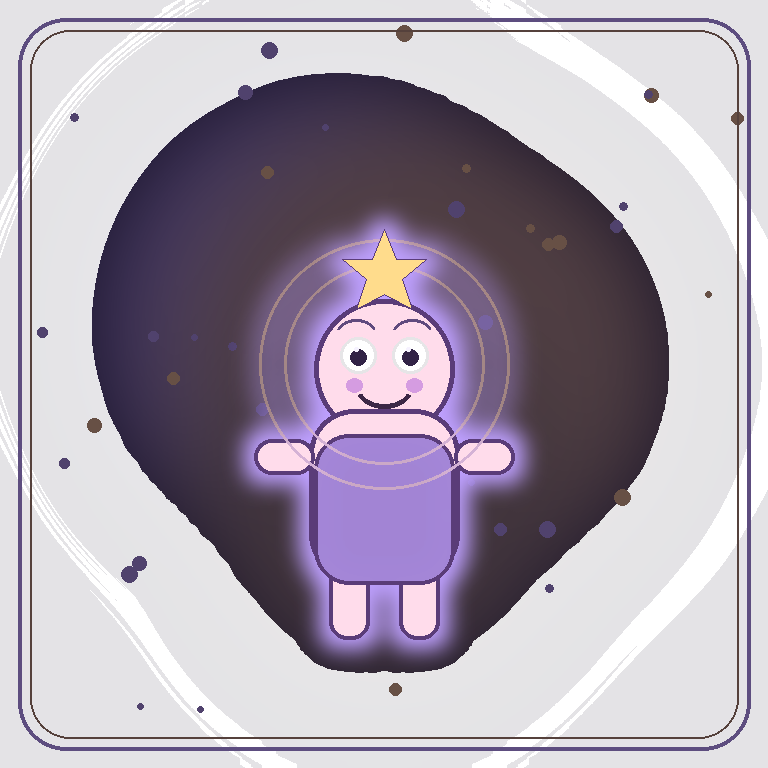
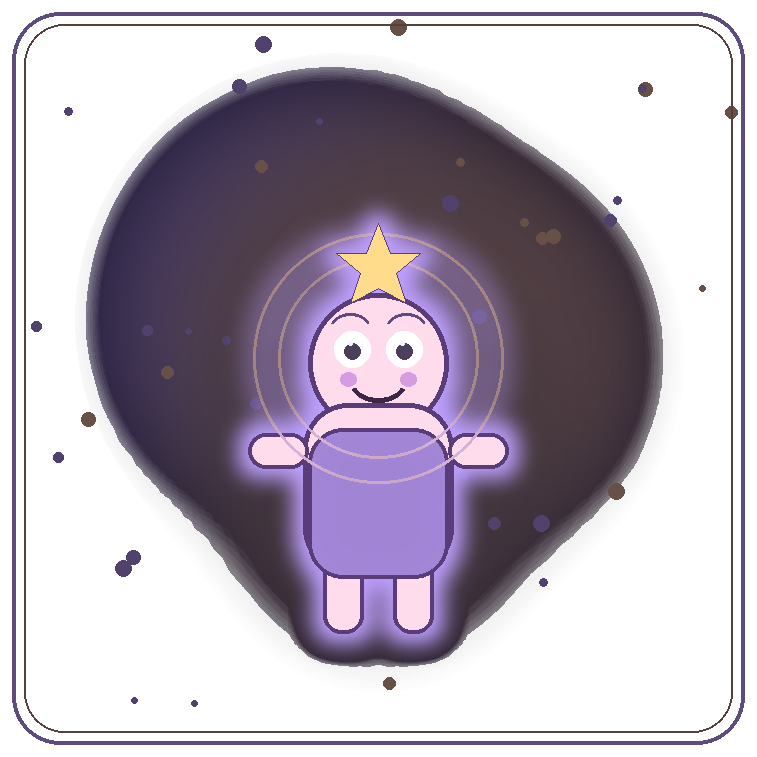
UNIVERSUM v5.28.0 — Figur wirklich frei · Status bis Rand
Hero neu als zwei Spalten (Status+Mond/Sonne | Figur von oben).
Pfad-Figur-PNGs ohne dunklen Kachel-Hintergrund. Cache v83.

diff --git a/css/styles.css b/css/styles.css
@@ -9360,7 +9360,8 @@ body.stille-modus #sec-cockpit > *:not(.altar-cockpit):not(.stille-ritual-slot):
 body.stille-modus #altar-cockpit > *:not(.cock-hero-grid) {
   display: none !important;
 }
-body.stille-modus #altar-cockpit .cock-hero-grid > *:not(.cock-status-bar) {
+body.stille-modus #altar-cockpit .cock-path-figur,
+body.stille-modus #altar-cockpit .cock-mond-sonne {
   display: none !important;
 }
 body.stille-modus #altar-cockpit .cock-status-unified .cock-status-meta {
@@ -9370,7 +9371,11 @@ body.stille-modus #altar-cockpit .cock-hero-grid {
   display: grid !important;
   grid-template-columns: 1fr;
   grid-template-rows: 1fr;
-  grid-template-areas: "status";
+  height: 100%;
+}
+body.stille-modus #altar-cockpit .cock-hero-main {
+  display: grid !important;
+  grid-template-rows: 1fr;
   height: 100%;
 }
 body.stille-modus #altar-cockpit .cock-status-bar {
@@ -9509,14 +9514,11 @@ body.stille-modus #sec-cockpit #jetzt-card .jetzt-lead {
   overflow: hidden;
 }
 
-/* Hero: große Status-Kachel bis Rand links · Figur frei oben rechts */
+/* Hero v5.28: Status+Mond/Sonne links · Figur frei rechts von oben */
 .cock-hero-grid {
   display: grid;
-  grid-template-columns: minmax(0, 1.35fr) minmax(0, 1.35fr) minmax(0, 1.2fr);
-  grid-template-rows: minmax(0, 1.15fr) minmax(0, 1fr);
-  grid-template-areas:
-    "status status figur"
-    "mond   sonne  figur";
+  grid-template-columns: minmax(0, 1.7fr) minmax(6.5rem, 0.95fr);
+  grid-template-rows: minmax(0, 1fr);
   gap: var(--cock-gap);
   min-height: 0;
   height: 100%;
@@ -9525,10 +9527,31 @@ body.stille-modus #sec-cockpit #jetzt-card .jetzt-lead {
   margin: 0;
   padding: 0;
 }
-.cock-hero-grid .cock-status-bar { grid-area: status; }
-.cock-hero-grid .cock-mond { grid-area: mond; }
-.cock-hero-grid .cock-sonne { grid-area: sonne; }
-.cock-hero-grid .cock-path-figur { grid-area: figur; }
+.cock-hero-main {
+  display: grid;
+  grid-template-rows: minmax(0, 1.25fr) minmax(0, 1fr);
+  gap: var(--cock-gap);
+  min-width: 0;
+  min-height: 0;
+  height: 100%;
+}
+.cock-hero-main .cock-status-bar {
+  min-height: 0;
+  height: 100%;
+  width: 100%;
+}
+.cock-mond-sonne {
+  display: grid;
+  grid-template-columns: minmax(0, 1fr) minmax(0, 1fr);
+  gap: var(--cock-gap);
+  min-height: 0;
+  height: 100%;
+}
+.cock-mond-sonne .cock-mond,
+.cock-mond-sonne .cock-sonne {
+  min-height: 0;
+  height: 100%;
+}
 
 /* Soft glassmorphism + neon stroke */
 .altar-cockpit .cock-tile,
@@ -9660,8 +9683,8 @@ body.stille-modus #sec-cockpit #jetzt-card .jetzt-lead {
   display: flex !important;
   flex-direction: column;
   align-items: center;
-  justify-content: flex-end;
-  gap: 0.12rem;
+  justify-content: flex-start;
+  gap: 0.15rem;
   margin: 0 !important;
   padding: 0 !important;
   min-height: 0;
@@ -9680,16 +9703,19 @@ body.stille-modus #sec-cockpit #jetzt-card .jetzt-lead {
   overflow: visible !important;
   cursor: default;
   pointer-events: none;
-  z-index: 2;
+  z-index: 3;
   align-self: stretch;
+  grid-column: 2;
+  grid-row: 1;
 }
 .cock-path-figur .path-figure-frame {
   flex: 1 1 auto;
   min-height: 0;
   width: 100%;
   height: 100%;
-  display: grid;
-  place-items: end center;
+  display: flex;
+  align-items: flex-start;
+  justify-content: center;
   border: 0 !important;
   border-radius: 0 !important;
   overflow: visible !important;
@@ -9699,12 +9725,12 @@ body.stille-modus #sec-cockpit #jetzt-card .jetzt-lead {
   padding: 0 !important;
 }
 .cock-path-figur .path-figure-img {
-  width: auto;
+  width: 100%;
   max-width: 100%;
   height: 100%;
-  max-height: 100%;
+  max-height: calc(100% - 1rem);
   object-fit: contain;
-  object-position: center bottom;
+  object-position: top center;
   display: block;
   border: 0 !important;
   border-radius: 0 !important;
@@ -9793,41 +9819,32 @@ body.stille-modus #sec-cockpit #jetzt-card .jetzt-lead {
 
 @media (max-width: 430px) {
   .altar-cockpit { --cock-gap: 0.36rem; }
-  .cock-hero-grid {
-    grid-template-columns: minmax(0, 1fr) minmax(0, 1fr) minmax(0, 0.95fr);
-  }
   .cock-status-unified { padding: 0.45rem 0.52rem 0.4rem !important; }
   .cock-status-meta { gap: 0.32rem; }
   .path-figure-caption { font-size: 0.58rem; }
 }
 
-/* v5.27.2 — Status bis Rand · Figur ohne Kachel */
+/* v5.28.0 — Status bis Rand · Figur oben frei (kein Kachel-PNG) */
 #sec-cockpit.altar-sacred.active {
-  padding-left: 0.55rem !important;
-  padding-right: 0.55rem !important;
-  padding-top: 0.45rem !important;
+  padding-left: 0.4rem !important;
+  padding-right: 0.4rem !important;
+  padding-top: 0.35rem !important;
 }
 .altar-cockpit.altar-homescreen {
   width: 100%;
   max-width: none;
   margin-inline: 0;
 }
-.cock-hero-grid .cock-status-bar {
+.cock-hero-main .cock-status-bar {
   min-width: 0;
   width: 100%;
 }
-.cock-hero-grid .cock-path-figur {
-  /* keep figure column tight to right edge of hero */
-  margin-right: -0.1rem;
-  margin-top: -0.15rem;
-}
 @media (max-width: 430px) {
   #sec-cockpit.altar-sacred.active {
-    padding-left: 0.42rem !important;
-    padding-right: 0.42rem !important;
+    padding-left: 0.28rem !important;
+    padding-right: 0.28rem !important;
   }
   .cock-hero-grid {
-    grid-template-columns: minmax(0, 1.25fr) minmax(0, 1.25fr) minmax(0, 1.15fr) !important;
-    grid-template-rows: minmax(0, 1.2fr) minmax(0, 1fr) !important;
+    grid-template-columns: minmax(0, 1.55fr) minmax(5.6rem, 0.9fr) !important;
   }
 }

diff --git a/cockpit.html b/cockpit.html
@@ -43,7 +43,7 @@
     <div id="main-content" tabindex="-1">
     <!-- 1. Altar (route id: cockpit) -->
     <section id="sec-cockpit" class="section-view active cockpit-lovely-page altar-sacred" aria-label="Altar">
-      <!-- v5.27.2 Altar — Skizze + volles Apps-Dock · 1 Status-Box · Figur frei · kein Sitzungs-Banner -->
+      <!-- v5.28.0 Altar — Skizze + volles Apps-Dock · 1 Status-Box · Figur frei · kein Sitzungs-Banner -->
       <h1 class="section-title altar-cockpit-heading sr-only"><span class="sec-ico" aria-hidden="true">🪔</span> Altar</h1>
       <span class="section-motif altar-cockpit-motif" aria-hidden="true" hidden></span>
       <p class="section-sub altar-cockpit-sub sr-only">Dein Altar — warm, still, zum Ankommen.</p>
@@ -99,11 +99,11 @@
       <!-- legacy chip kept for JS -->
       <button type="button" class="fest-countdown-chip" id="fest-countdown-chip" hidden aria-live="polite"></button>
 
-      <!-- v5.27.2 Altar — Skizze: 1 Status-Box · Figur frei · Mond|Sonne · Schumann · volles Apps-Dock -->
+      <!-- v5.28.0 Altar — Skizze: 1 Status-Box · Figur frei · Mond|Sonne · Schumann · volles Apps-Dock -->
       <div class="altar-cockpit altar-homescreen" id="altar-cockpit" aria-label="Altar — dein magisches Home">
 
         <div class="cock-hero-grid" aria-label="Zeit, Kosmos und Pfad">
-          <!-- 1. ONE top-left status box: Zeit/Datum + Wetter + Heute tip -->
+          <div class="cock-hero-main">
           <div class="cock-status-bar cock-status-unified cock-tile cock-glass" role="group" aria-label="Zeit, Wetter und Heute">
             <div class="cock-status-meta">
               <div class="cock-status-zeit" aria-label="Zeit und Datum">
@@ -139,7 +139,7 @@
             </article>
           </div>
 
-          <!-- 2. Mond | Sonne (hohe Glaskacheln mit Glow) -->
+            <div class="cock-mond-sonne" role="group" aria-label="Mond und Sonne">
           <button type="button" class="dash-panel moon mess-tile mess-tap cock-tile cock-glass cock-glow-mond cock-mond" id="mess-mond" data-mess-nav="kosmos" aria-label="Mond — öffnet Kosmos">
             <div class="cock-head">
               <span class="cock-ico" aria-hidden="true">🌙</span>
@@ -150,7 +150,6 @@
             <div class="meta" id="dash-moon-meta"></div>
             <div class="mess-sign" id="dash-moon-sign">—</div>
           </button>
-
           <button type="button" class="dash-panel sun mess-tile mess-tap cock-tile cock-glass cock-glow-sonne cock-sonne" id="mess-sonne" data-mess-nav="kosmos" aria-label="Sonne — öffnet Kosmos">
             <div class="cock-head">
               <span class="cock-ico" aria-hidden="true">☀</span>
@@ -161,8 +160,8 @@
             <div class="mess-readout" id="dash-sun-set">↓ —</div>
             <div class="meta" id="dash-sun-meta">Aufgang · Untergang · Näherung</div>
           </button>
-
-          <!-- 3. Pfad-Figur OHNE Kachel — frei schwebend -->
+            </div>
+          </div>
           <figure class="cock-path-figur cock-path-figur-float" id="cock-path-figur" aria-labelledby="path-figure-label">
             <div class="path-figure-frame">
               <img id="path-figure-img" class="path-figure-img" src="assets/path-figures/esoterik.png" alt="" width="512" height="512" decoding="async" data-path-figure="1" />
@@ -1348,7 +1347,7 @@
         <button type="button" class="ghost" id="set-reset-onboarding">Onboarding zurücksetzen</button>
         <button type="button" class="ghost" id="set-reset-starter">„Erste Praxis“ erneut anbieten</button>
 
-        <p class="footer-ethics" style="padding-top:1rem">Daten bleiben lokal auf diesem Gerät · App v<span id="settings-app-version">5.27.2</span> · <a href="#vertrauen" data-open-vertrauen>Vertrauen</a></p>
+        <p class="footer-ethics" style="padding-top:1rem">Daten bleiben lokal auf diesem Gerät · App v<span id="settings-app-version">5.28.0</span> · <a href="#vertrauen" data-open-vertrauen>Vertrauen</a></p>
       </div>
     </div>
   </div>

diff --git a/sw.js b/sw.js
@@ -2,9 +2,9 @@
  * UNIVERSUM · Service Worker — offline shell caching
  * Relative URLs so GitHub Pages /universum/ subpath works.
  * Cache-first for app shell; network-first navigations; offline fallback to cockpit.
- * v82: 5.27.2 — Altar sketch + full apps dock · 1 Status-Box · Figur frei
+ * v83: 5.28.0 — Altar sketch + full apps dock · 1 Status-Box · Figur frei
  */
-const CACHE = 'universum-shell-v82';
+const CACHE = 'universum-shell-v83';
 const SHELL = [
   './',
   './index.html',

diff --git a/index.html b/index.html
@@ -60,7 +60,7 @@
     <p class="splash-install-hint">Zum Home-Bildschirm legen — offline-fähig, ohne Store.</p>
     <p class="splash-foot">
       Früher: Feldlicht Ritualbegleiter · Daten bleiben lokal auf dem Gerät<br />
-      v5.27.2 · Altar · Skizze + volles Apps-Dock · Magie ohne Angst
+      v5.28.0 · Altar · Skizze + volles Apps-Dock · Magie ohne Angst
     </p>
   </main>
   <script>

diff --git a/js/storage.js b/js/storage.js
@@ -267,7 +267,7 @@
     });
   }
 
-  const APP_VERSION = '5.27.2';
+  const APP_VERSION = '5.28.0';
 
   function buildExportMeta(data) {
     const pathId = data.path || 'esoterik';

diff --git a/README.md b/README.md
@@ -430,6 +430,12 @@ Astronomie und Kalender sind **Näherungen** für die Praxis. Magie bleibt deine
 - Zwischenstand aufgegangen in `5.1.0`
 
 
+## 5.28.0 — Figur wirklich frei · Status bis Rand
+
+- Hero neu: links Status + Mond/Sonne, rechts Figur von oben (kein 3-Kachel-Raster)
+- Pfad-Figur-PNGs: dunkler Kachel-Hintergrund entfernt (transparent)
+- Status näher am Bildschirmrand · SW `universum-shell-v83`
+
 ## 5.27.2 — Status bis Rand · Figur ohne Kachel
 
 - Erste Status-Kachel (Zeit/Wetter/Heute) größer und näher am Rand
